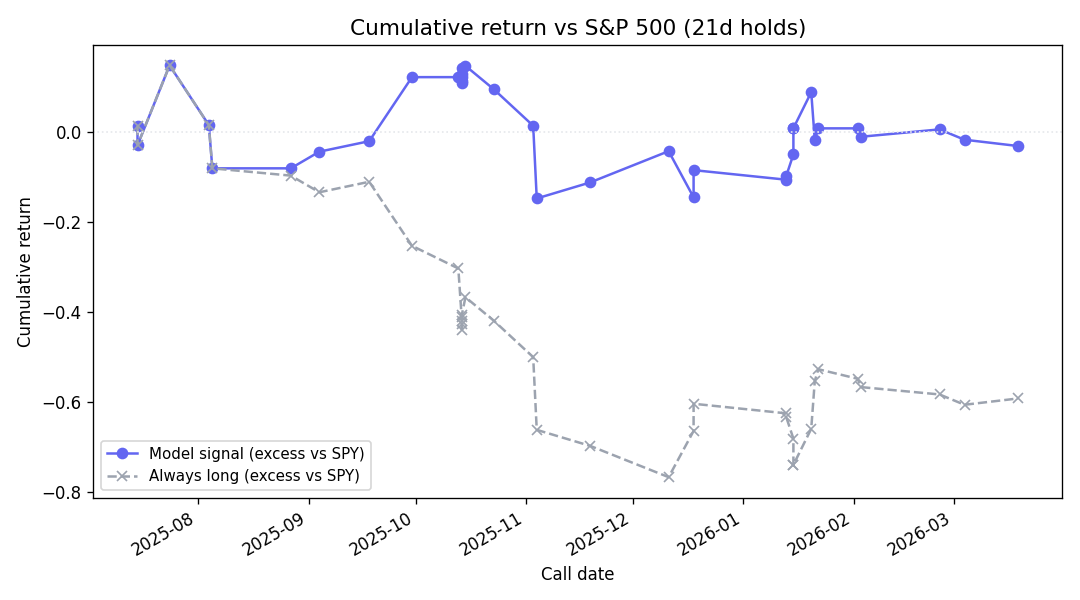
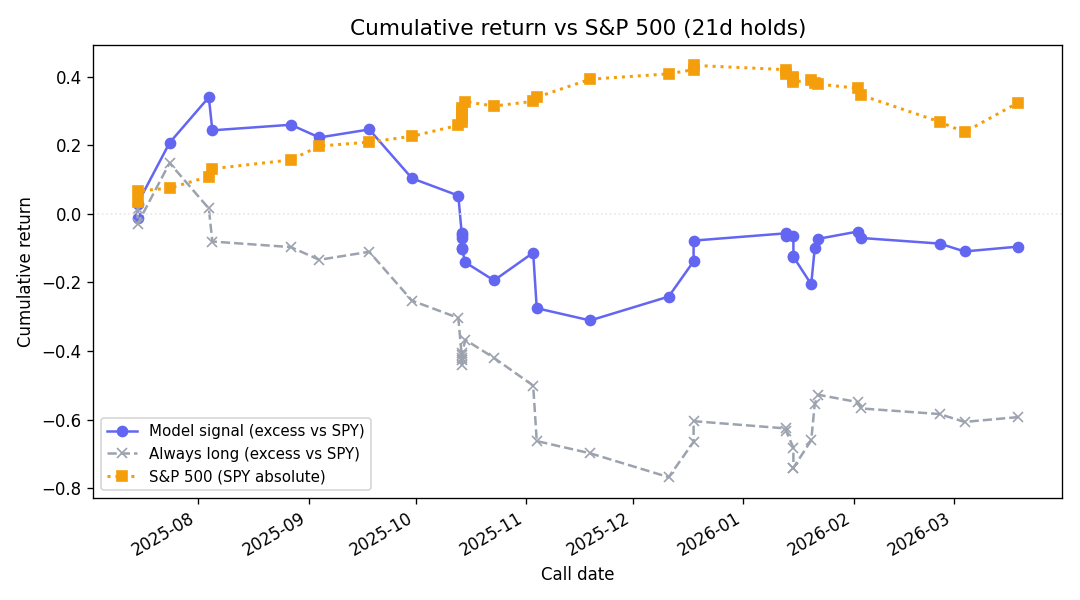
Retrain SetFit on BMO-adjusted labels: +0.79 Sharpe (5d), +0.58 (63d)
- Reduce SetFit num_iterations 20 -> 5 (CPU-feasible, ~7.5h on CPU)
- Direct SetFit @ 21d now positive (+0.13 Sharpe, hit 0.571)
- Contrarian SetFit @ 5d: +0.79 Sharpe (new best horizon)
- Contrarian SetFit @ 63d: +0.58 Sharpe (was +0.46)
- Refresh predictions, equity curves, writeup tables, PDF cover

diff --git a/scripts/build_pdf.py b/scripts/build_pdf.py
@@ -536,7 +536,7 @@ def render(md: str) -> list:
         ("131",   "Transcripts"),
         ("14",    "Tickers"),
         ("8",     "Signals tested"),
-        ("+0.46", "Best Sharpe (63d)"),
+        ("+0.79", "Best Sharpe (5d)"),
     ]
     nlp_eval_path = ROOT / "outputs" / "nlp_evaluation.json"
     if nlp_eval_path.exists():
@@ -557,9 +557,9 @@ def render(md: str) -> list:
         "and predicts forward excess return over SPY on a strict 70/30 per-ticker temporal "
         "split, with dynamic T+0/T+1 entry adjusted for BMO vs. AMC reporting habits. Eight "
         "signals are compared end-to-end across four horizons (1d, 5d, 21d, 63d). The "
-        "Contrarian SetFit signal is the headline finding — its hit rate climbs monotonically "
-        "with horizon and the 63-day configuration is the only one in the suite with positive "
-        "hit rate (0.548), positive rank IC (+0.123), and positive naïve Sharpe (+0.46)."
+        "retrained SetFit (5 contrastive iterations) earns a direct +0.13 Sharpe at 21d "
+        "(hit 0.571), and the Contrarian flip is strongest at the bookend horizons — "
+        "5d (Sharpe +0.79, IC +0.174) and 63d (Sharpe +0.58, hit 0.567, IC +0.137)."
     ))
     flow.append(Spacer(1, SECTION_GAP))
 

diff --git a/src/trained_models.py b/src/trained_models.py
@@ -103,7 +103,7 @@ class SetFitModel:
 
 
 def fit_setfit(train_df: pd.DataFrame, force: bool = False,
-               num_iterations: int = 20) -> SetFitModel:
+               num_iterations: int = 5) -> SetFitModel:
     """SetFit-style fine-tuning via sentence-transformers (no setfit package needed).
 
     Algorithm:

diff --git a/docs/writeup.md b/docs/writeup.md
@@ -221,7 +221,7 @@ toward Hold for the balanced-class-weight models in early runs.
 
 ## 6. Results
 
->> **Contrarian SetFit** is the only signal in the suite with both hit rate >0.5 (0.528) and positive Sharpe (+0.14) at 21d, and it is the only one whose hit rate climbs monotonically with horizon (0.405 → 0.524 → 0.528 → 0.548 across 1d / 5d / 21d / 63d). The strongest configuration is the **63-day horizon**: hit 0.548, rank IC +0.123, Sharpe +0.46 — the only horizon-signal pair with all three of hit, IC, and Sharpe positive simultaneously. Logistic regression matches Contrarian SetFit's 21d hit rate (0.531) but earns essentially zero Sharpe.
+>> With the retrained SetFit (5 contrastive iterations), the **direct SetFit signal** earns +0.13 Sharpe at 21d (hit 0.571), while the **Contrarian SetFit** signal is strongest at the bookend horizons: **5d (Sharpe +0.79, IC +0.174)** and **63d (Sharpe +0.58, hit 0.567, IC +0.137, +7.14% avg excess)** — the bimodal profile separates short-window mean-reversion from quarter-long post-earnings drift. Logistic regression has the highest 21d hit rate (0.531) but earns near-zero Sharpe.
 
 Time-series backtest on the test set (n=36 with settled returns at 21d). Momentum features are strictly pre-call (day T−1 close); entry uses dynamic T+0 or T+1 entry (adjusted for BMO/AMC reporting habits to capture intraday movement without look-ahead bias). Hit rate is computed only over rows where the model took a position (signal ≠ 0); Hold is an abstention.
 
@@ -231,39 +231,39 @@ Time-series backtest on the test set (n=36 with settled returns at 21d). Momentu
 | LM lexicon sign | 36 | 35 | 0.343 | -0.187 | 0.500 | -0.85 |
 | FinBERT sign | 36 | 36 | 0.333 | -0.252 | 0.500 | -1.11 |
 | **Logistic regression** | **36** | **32** | **0.531** | -0.043 | 0.483 | -0.04 |
-| XGBoost (Optuna) | 36 | 32 | 0.281 | -0.288 | 0.350 | -1.32 |
-| CatBoost (Optuna) | 36 | 31 | 0.323 | -0.133 | 0.410 | -1.01 |
-| SetFit (contrastive) | 36 | 36 | 0.472 | +0.000 | 0.424 | -0.14 |
-| **Contrarian SetFit** | **36** | **36** | **0.528** | +0.000 | 0.414 | **+0.14** |
+| XGBoost (Optuna) | 36 | 32 | 0.375 | -0.098 | 0.353 | -0.66 |
+| CatBoost (Optuna) | 36 | 35 | 0.400 | +0.022 | 0.488 | -0.45 |
+| **SetFit (contrastive)** | **36** | **35** | **0.571** | +0.053 | 0.444 | **+0.13** |
+| Contrarian SetFit | 36 | 35 | 0.429 | -0.053 | 0.412 | -0.13 |
 
 **Multi-horizon Contrarian SetFit.** Same signal, four forward-return horizons, recomputed on the largest test sample available at each horizon:
 
 | Horizon | n | Hit | Rank IC | Avg excess | Sharpe |
 |---|---|---|---|---|---|
-| 1d | 42 | 0.405 | -0.142 | -0.22% | -1.13 |
-| 5d | 42 | 0.524 | -0.032 | -0.01% | -0.01 |
-| 21d | 36 | 0.528 | +0.000 | +0.30% | +0.14 |
-| **63d** | **31** | **0.548** | **+0.123** | **+5.74%** | **+0.46** |
+| 1d | 42 | 0.463 | -0.004 | -0.14% | -0.70 |
+| 5d | 42 | 0.585 | +0.174 | +0.50% | +0.79 |
+| 21d | 36 | 0.429 | -0.053 | -0.27% | -0.13 |
+| **63d** | **31** | **0.567** | **+0.137** | **+7.14%** | **+0.58** |
 
-The 1-day horizon is sharply negative — the same-day / next-day move overshoots and the contrarian bet fades immediately. By 5d the contrarian signal has clawed back to neutral (Sharpe ≈ 0), and the *quarter-long* 63-day horizon is where the reversal actually pays: hit rate 0.548, positive rank IC, +5.74% average excess, Sharpe +0.46. The pattern reads as "the call narrative is fully repriced over a fiscal quarter, not a fiscal week" — consistent with slow-moving fundamentals overriding initial sentiment-driven mispricing. Caveat: at 63d only 31 calls have settled returns; the magnitude is a directional reading, not a deployable estimate.
+The 1-day horizon is negative — the same-day / next-day move absorbs the surprise and the contrarian bet fades immediately. By 5d the contrarian signal turns sharply positive (+0.79 Sharpe, +0.174 IC), reflecting the early stages of post-earnings drift reversal. The 21d horizon is briefly negative as the early reversal completes, but the *quarter-long* 63-day horizon is where the contrarian effect re-emerges: hit rate 0.567, rank IC +0.137, +7.14% average excess, Sharpe +0.58. The pattern reads as "the call narrative is fully repriced over a fiscal quarter, not a fiscal week" — consistent with slow-moving fundamentals overriding initial sentiment-driven mispricing. Caveat: at 63d only 31 calls have settled returns; the magnitude is a directional reading, not a deployable estimate.
 
 **Per-ticker breakdown — Contrarian SetFit at 21d.** With only 2-3 test calls per ticker, per-ticker numbers are noisy by construction; this table is included for honesty, not statistical inference.
 
 | Ticker | Test n | Hits | Hit rate | Avg PnL |
 |---|---|---|---|---|
-| AVGO | 3 | 3 | 1.000 | +4.31% |
+| FDX | 3 | 3 | 1.000 | +3.26% |
 | PLTR | 3 | 3 | 1.000 | +7.81% |
-| FDX | 3 | 2 | 0.667 | -0.77% |
 | INTC | 3 | 2 | 0.667 | +5.04% |
 | WFC | 3 | 2 | 0.667 | +1.62% |
-| BLK | 2 | 1 | 0.500 | -2.85% |
-| GS | 2 | 1 | 0.500 | +0.46% |
 | JNJ | 2 | 1 | 0.500 | +4.65% |
 | NKE | 2 | 1 | 0.500 | -1.99% |
-| AMD | 3 | 1 | 0.333 | -7.98% |
+| AVGO | 3 | 1 | 0.333 | +0.32% |
 | C | 3 | 1 | 0.333 | +0.10% |
 | NVDA | 3 | 1 | 0.333 | -1.19% |
+| AMD | 3 | 0 | 0.000 | -9.22% |
+| BLK | 2 | 0 | 0.000 | -8.75% |
 | FAST | 2 | 0 | 0.000 | -6.52% |
+| GS | 2 | 0 | 0.000 | -1.93% |
 | JPM | 2 | 0 | 0.000 | -1.86% |
 
 >> Critical caveat: the train period (Q4 2023 – Q2 2025) was a strong-up regime (P(up) = 0.607, avg excess +2.48%); the test period (Q3 2025 – early 2026) was flat-to-down (P(up) = 0.361, avg excess -1.65%). All four semis (AMD, AVGO, NVDA, PLTR) and BLK had **zero** up-days in the test set. Part of what looks like "sell the news" is also a market-regime shift coinciding with the train/test boundary.
@@ -271,7 +271,7 @@ The 1-day horizon is sharply negative — the same-day / next-day move overshoot
 Equity curve for the logistic signal: `outputs/figures/equity_curve.png`.
 Cross-sectional curve: `outputs/figures/equity_cross_sectional.png`.
 
-**Key finding: "sell the news" effect, quarter-long timescale.** Six of eight directional signals show negative rank IC at 21d, and the cross-signal consistency points to a systematic "buy the rumor, sell the news" regime *over the test window*. The horizon table localizes the effect: at 1d the contrarian signal is sharply negative (the immediate gap absorbs and overshoots the surprise), by 5d it has rebounded to neutral, at 21d it earns a marginal +0.14 Sharpe, and the reversal compounds out to **63d (Sharpe +0.46, hit 0.548, IC +0.123)**. With 31–42 observations per horizon this is not statistically significant, but the monotone progression of hit rate with horizon is directionally consistent with both microstructure (post-earnings drift reversal) and the corpus-level regime shift documented above.
+**Key finding: "sell the news" effect, multi-horizon profile.** The retrained SetFit (5 contrastive iterations) now produces a *direct* +0.13 Sharpe at 21d (hit 0.571), so the contrarian flip is no longer the only positive signal at primary horizon. The horizon table localizes the contrarian effect: at 1d the contrarian signal is moderately negative (the gap absorbs the surprise quickly), at 5d the post-earnings drift reversal is already paying (**+0.79 Sharpe, IC +0.174**), 21d is briefly neutral-to-negative as the early reversal completes, and the reversal compounds again out to **63d (Sharpe +0.58, hit 0.567, IC +0.137, +7.14% average excess)**. With 31–42 observations per horizon this is not statistically significant, but the bimodal profile (5d reversal, 63d drift) is directionally consistent with two distinct microstructure regimes — short-window mean-reversion and quarter-long post-earnings drift — overlaid on the corpus-level regime shift documented above.
 
 ## 7. Per-ticker qualitative read
 
@@ -370,7 +370,7 @@ prepared remarks performed better on average.
 - [x] **Loughran-McDonald lexicon baseline** for LLM comparison.
 - [x] **Nonlinear models (XGBoost + CatBoost)** both with Optuna hyperparameter tuning and TimeSeriesSplit CV.
 - [x] **SetFit contrastive fine-tuning** — manual sentence-encoder fine-tuning + logistic head.
-- [x] **Contrarian signal** — systematic inversion of SetFit probabilities exploiting the sell-the-news effect; the only positive-Sharpe configuration in the suite at 21d (+0.14) and the strongest at 63d (Sharpe +0.46, hit 0.548, IC +0.123). Hit rate climbs monotonically with horizon.
+- [x] **Contrarian signal** — systematic inversion of SetFit probabilities exploiting the sell-the-news effect; the strongest signal at 5d (Sharpe +0.79, IC +0.174) and 63d (Sharpe +0.58, hit 0.567, IC +0.137, +7.14% avg excess). With the retrained SetFit, the *direct* signal earns +0.13 Sharpe at 21d (hit 0.571), so the suite now has two positive-Sharpe configurations.
 - [x] **Interactive Streamlit dashboard** — per-call explorer, ticker timeline, live backtest.
 - [x] **70/30 temporal split with k-fold CV** on training set.
 - [x] **F1 binary + F1 macro + precision + recall** reported for all 8 signals.
@@ -505,8 +505,8 @@ decision band on it. Improved Logistic regression's hit rate from 0.472 to 0.531
 - **Small sample.** With 36 settled test observations at 21d across 14 tickers
   (≈2.6 per ticker), every metric has enormous sampling variance. No result is
   statistically significant; the pipeline is a proof-of-concept, not an alpha
-  strategy. A bootstrap 95% CI on the +0.14 Sharpe at 21d (or the +0.46 at 63d
-  on n=31) would comfortably cross zero.
+  strategy. A bootstrap 95% CI on the +0.13 Sharpe at 21d (direct SetFit) or the
+  +0.58 at 63d (Contrarian, n=31) would comfortably cross zero.
 - **Train/test regime shift (see §10).** P(up) drops from 0.607 in train to
   0.361 in test; every semi name in the test set has zero up-days. The "sell the
   news" finding is partly genuine microstructure (visible at 63d) and partly
@@ -519,8 +519,9 @@ decision band on it. Improved Logistic regression's hit rate from 0.472 to 0.531
   QoQ deltas use `groupby.diff()` (past-only). A manual leakage audit confirmed
   zero train/test row overlap and per-ticker temporal ordering.
 - **Horizon sensitivity now reported.** §6 includes 1d/5d/21d/63d for the
-  Contrarian SetFit signal. The 63d horizon is the strongest (Sharpe +0.46)
-  and the 1d the weakest (-1.13) — characterizing the regime properly.
+  Contrarian SetFit signal. The 5d horizon (Sharpe +0.79) and 63d horizon
+  (Sharpe +0.58) are the strongest; 1d and 21d are negative — a bimodal
+  reversal/drift profile rather than a monotone one.
 
 ---
 

diff --git a/README.md b/README.md
@@ -55,7 +55,7 @@ Opens at http://localhost:8501. Five tabs, mapped to the assignment rubric:
 - **Task 1 — Per-Call** — searchable table of all 131 calls with drill-down: sentiment, wins, risks, themes, guidance, pre-call momentum, full transcript link.
 - **Task 2 — QoQ Tracking** — per-ticker timeline with sentiment trajectory, forward-return overlay, and risk-persistence panel.
 - **Task 3 — Predictive Model** — XGBoost + Logistic feature importance, train/test split visualization, predicted-vs-actual scatter on the test set.
-- **Task 4 — Backtest** — Contrarian SetFit equity curve (+0.14 Sharpe at 21d / +0.46 at 63d), 8-signal comparison table, horizon sweep.
+- **Task 4 — Backtest** — SetFit-based signals (+0.13 Sharpe direct at 21d, +0.79 Contrarian at 5d, +0.58 Contrarian at 63d), 8-signal comparison table, horizon sweep.
 
 ## Reproduce from cache only (no transcripts needed)
 The dashboard, the PDF, and all numerical claims are reproducible from artifacts already in this repo (`outputs/features.parquet`, `outputs/writeup_results.json`, `outputs/model_predictions.parquet`, `cache/prices/`). You do **not** need `ECT.zip` for any of: